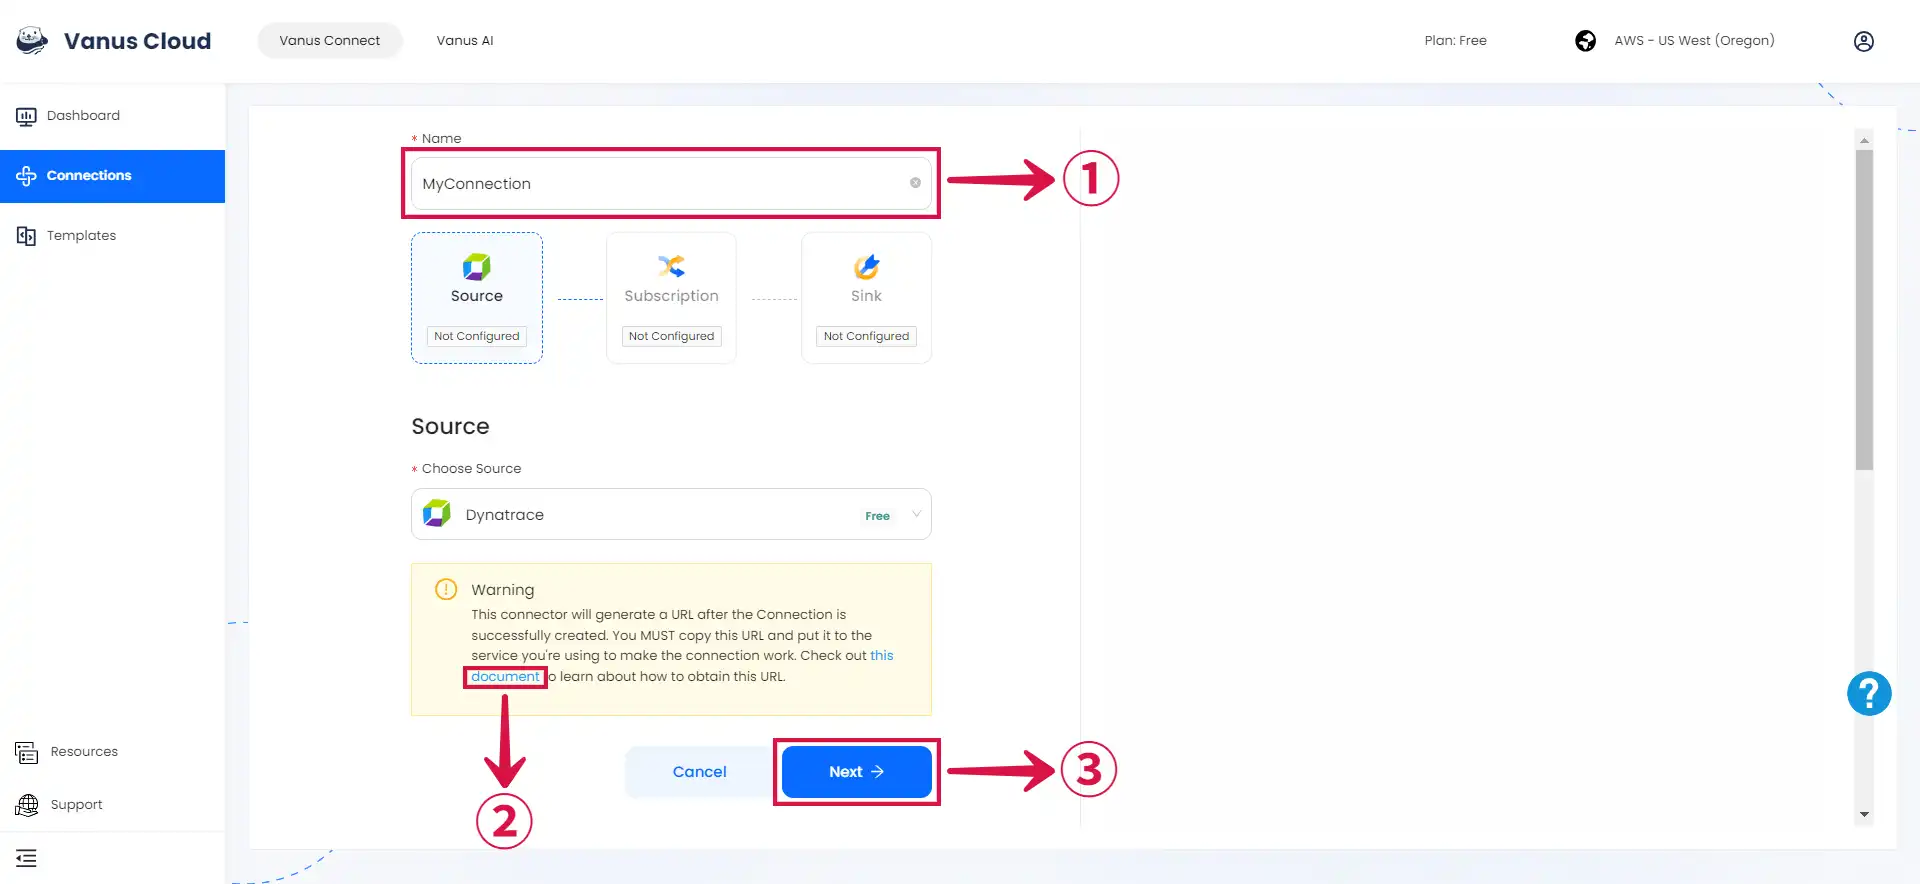
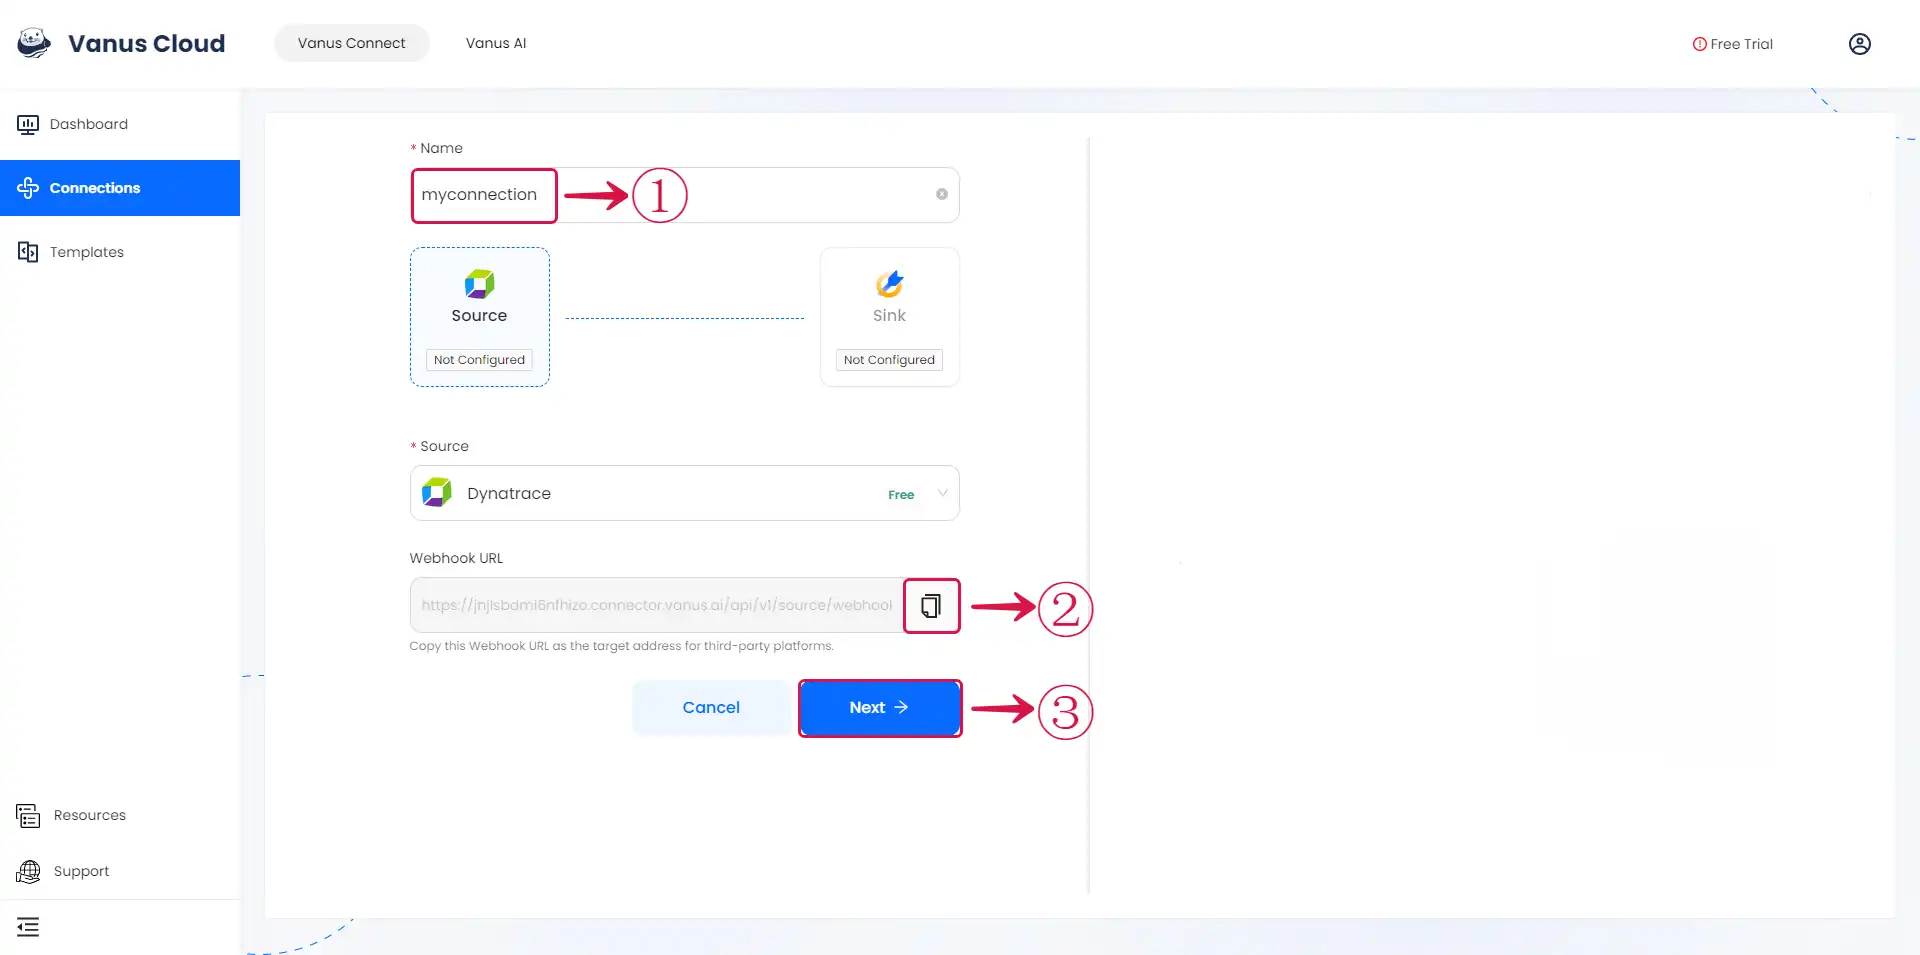
Docs: Update Dynatrace Docs

diff --git a/content/vanus-connect/connector-guides/source/dynatrace/setup.md b/content/vanus-connect/connector-guides/source/dynatrace/setup.md
@@ -21,12 +21,12 @@ Before obtaining Dynatrace events, you must have:
 
 To obtain all Dynatrace events in Vanus Connect, follow these steps:
 
-![dynatrace-source-1](images/dynatrace-source-1.webp)
-
 - Write a **Name**① for your connection in Vanus Connect.
 
-- After creating the connection, there are a few more steps. Simply click the **document**② link to open a new page with all the details on how to complete the connection.
+- Click on the **copy**② icon to copy the Webhook URL. Use the Webhook URL to receive events.
 
 - Click **Next**③ and continue the configuration.
+
+![dynatrace-source-1](images/dynatrace-source-1.webp)
 
 Learn more about Vanus and Vanus Connect in our [**documentation**](https://docs.vanus.ai).

diff --git a/content/cloud-docs/source/dynatrace/setup.md b/content/cloud-docs/source/dynatrace/setup.md
@@ -14,13 +14,13 @@ hide_title: true
 
 ### Step 1: Create your connection in Vanus Connect
 
-![dynatrace-source-1](images/dynatrace-source-1.webp)
-
 - Write a **Name**① for your connection in Vanus Connect.
 
-- After creating the connection, there are a few more steps. Simply click the **document**② link to open a new page with all the details on how to complete the connection.
+- Click on the **copy**② icon to copy the Webhook URL. Use the Webhook URL to receive events.
 
 - Click **Next**③ and continue the configuration.
+
+![dynatrace-source-1](images/dynatrace-source-1.webp)
 
 ---
 
